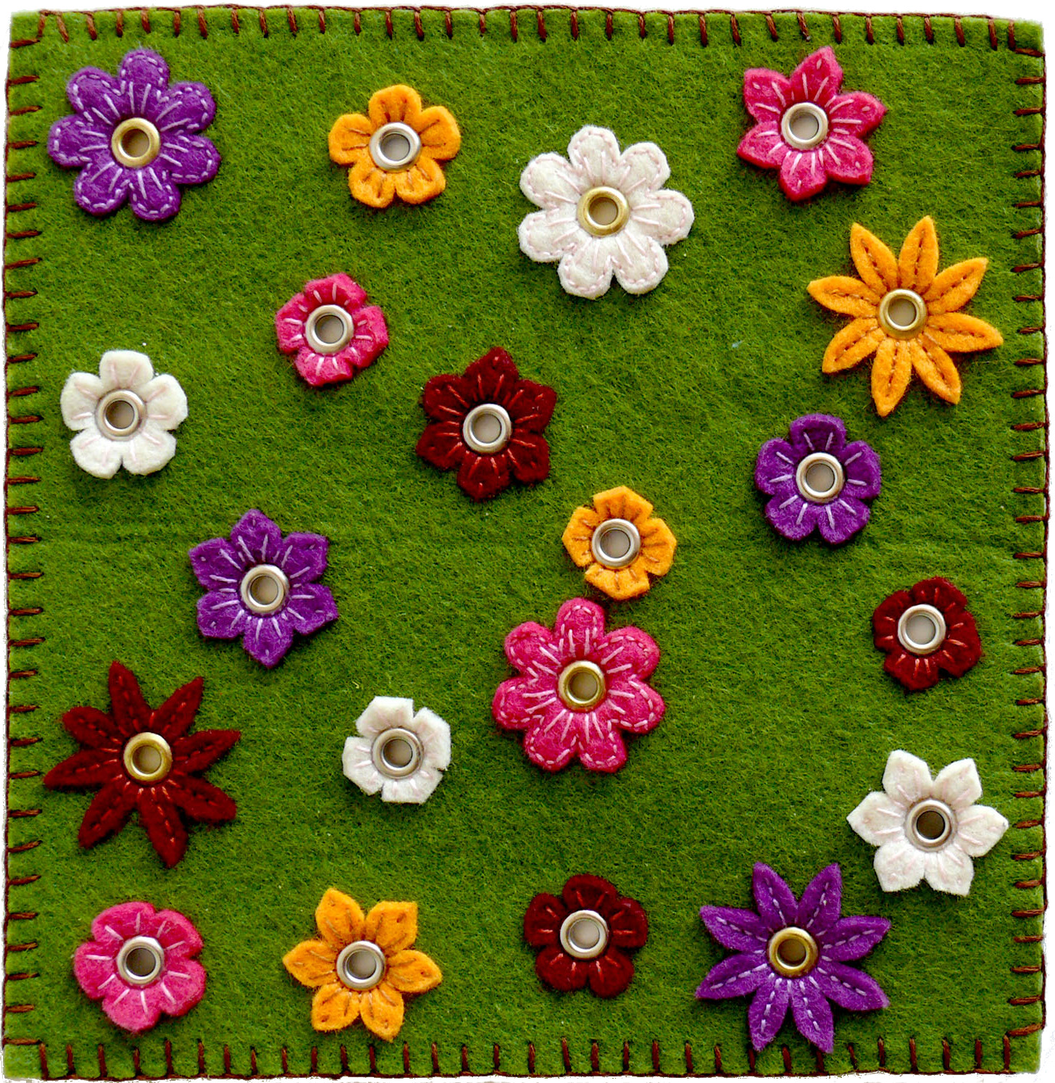
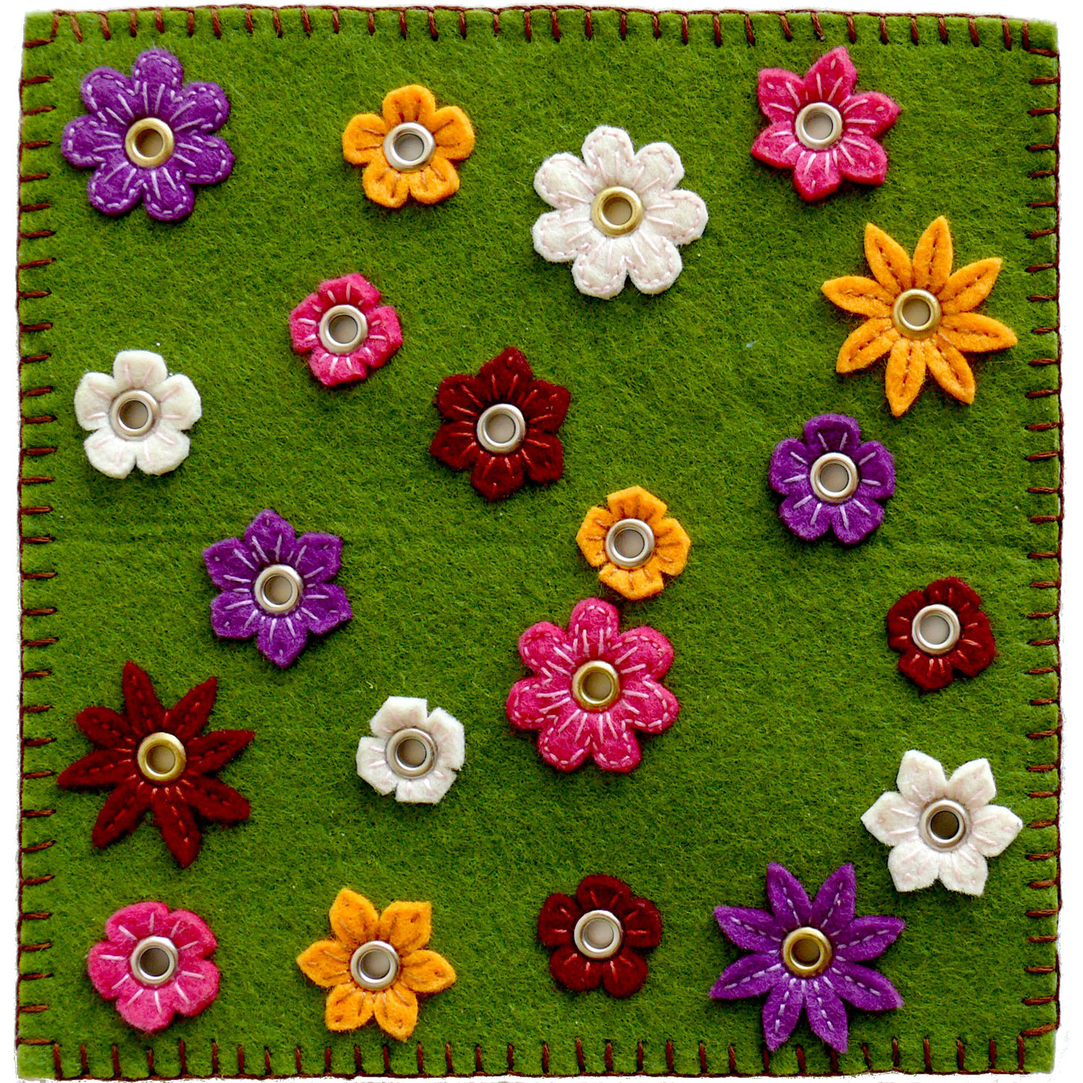
Align flowers with background image

diff --git a/src/js/components/App.react.js b/src/js/components/App.react.js
@@ -27,6 +27,7 @@ class App extends React.Component {
       this.setState(getAppState());
     };
     const createFlowers = (color, positions) => {
+      const SIZE = 1494;
       const sizes = [
         GardenConstants.FLOWER_SIZE_4,
         GardenConstants.FLOWER_SIZE_5,
@@ -35,29 +36,33 @@ class App extends React.Component {
         GardenConstants.FLOWER_SIZE_8,
       ];
       for (let i = 0; i < positions.length; i++) {
-        const position = positions[i];
-        if (position === null) {
+        const positionPixels = positions[i];
+        if (positionPixels === null) {
           continue;
         }
+        const position = {
+          x: positionPixels.x / SIZE,
+          y: positionPixels.y / SIZE,
+        };
         const size = sizes[i];
         const flower = { color, position, size };
         GardenActions.addFlower(flower);
       }
     };
     createFlowers(GardenConstants.FLOWER_COLOR_WHITE, [
-      { x: 0.3, y: 0.7 }, { x: 0.1, y: 0.3 }, { x: 0.9, y: 0.8 }, { x: 0.6, y: 0.2 }, null,
+      { x: 568, y: 1036 }, { x: 184, y: 570 }, { x: 1304, y: 1134 }, { x: 852, y: 290 }, null,
     ]);
     createFlowers(GardenConstants.FLOWER_COLOR_RED, [
-      { x: 0.9, y: 0.6 }, { x: 0.5, y: 0.9 }, { x: 0.4, y: 0.4 }, null, { x: 0.1, y: 0.7 },
+      { x: 1290, y: 868 }, { x: 828, y: 1288 }, { x: 690, y: 590 }, null, { x: 222, y: 1044 },
     ]);
     createFlowers(GardenConstants.FLOWER_COLOR_YELLOW, [
-      { x: 0.6, y: 0.5 }, { x: 0.3, y: 0.1 }, { x: 0.3, y: 0.9 }, null, { x: 0.9, y: 0.3 },
+      { x: 868, y: 748 }, { x: 566, y: 202 }, { x: 516, y: 1330 }, null, { x: 1262, y: 430 },
     ]);
     createFlowers(GardenConstants.FLOWER_COLOR_PINK, [
-      { x: 0.3, y: 0.3 }, { x: 0.1, y: 0.9 }, { x: 0.8, y: 0.1 }, { x: 0.6, y: 0.7 }, null,
+      { x: 472, y: 452 }, { x: 214, y: 1326 }, { x: 1128, y: 172 }, { x: 822, y: 944 }, null,
     ]);
     createFlowers(GardenConstants.FLOWER_COLOR_PURPLE, [
-      null, { x: 0.4, y: 0.8 }, { x: 0.2, y: 0.6 }, { x: 0.1, y: 0.1 }, { x: 0.8, y: 0.9 },
+      null, { x: 1150, y: 656 }, { x: 384, y: 812 }, { x: 204, y: 196 }, { x: 1112, y: 1312 },
     ]);
     GardenActions.addPlayer({ color: GardenConstants.PLAYER_COLOR_BLUE });
     GardenActions.addPlayer({ color: GardenConstants.PLAYER_COLOR_GREEN });
@@ -80,12 +85,11 @@ class App extends React.Component {
       connections={this.state.connections}
       players={this.state.players}
     />);
-    const activePlayer = this.state.activePlayer;
-    console.log(activePlayer);
-    if (activePlayer) {
-      const color = activePlayer.get("color");
-      return <div className={color} id="app">{garden}</div>;
-    }
+    // const activePlayer = this.state.activePlayer;
+    // if (activePlayer) {
+    //   const color = activePlayer.get("color");
+    //   return <div className={color} id="app">{garden}</div>;
+    // }
     return <div id="app">{garden}</div>;
   }
 }

diff --git a/src/js/components/Flower.react.js b/src/js/components/Flower.react.js
@@ -5,7 +5,6 @@ class Flower extends React.Component {
   constructor() {
     super();
     this.onClick = (event) => {
-      console.log(this.props.flowerId);
       GardenActions.addConnection(this.props.flowerId);
     }
   }
@@ -15,7 +14,7 @@ class Flower extends React.Component {
     const position = flower.position;
     const x = position.x;
     const y = position.y;
-    const size = flower.size;
+    const size = 5;
     const color = flower.color;
     const rotation = 0;
     const style = {
@@ -26,6 +25,7 @@ class Flower extends React.Component {
       marginTop: `${-size / 2}rem`,
       marginLeft: `${-size / 2}rem`,
       transform: `rotate(${rotation}deg)`,
+      background: "none",
     };
     const classNames = `flower ${color}`;
     return (
